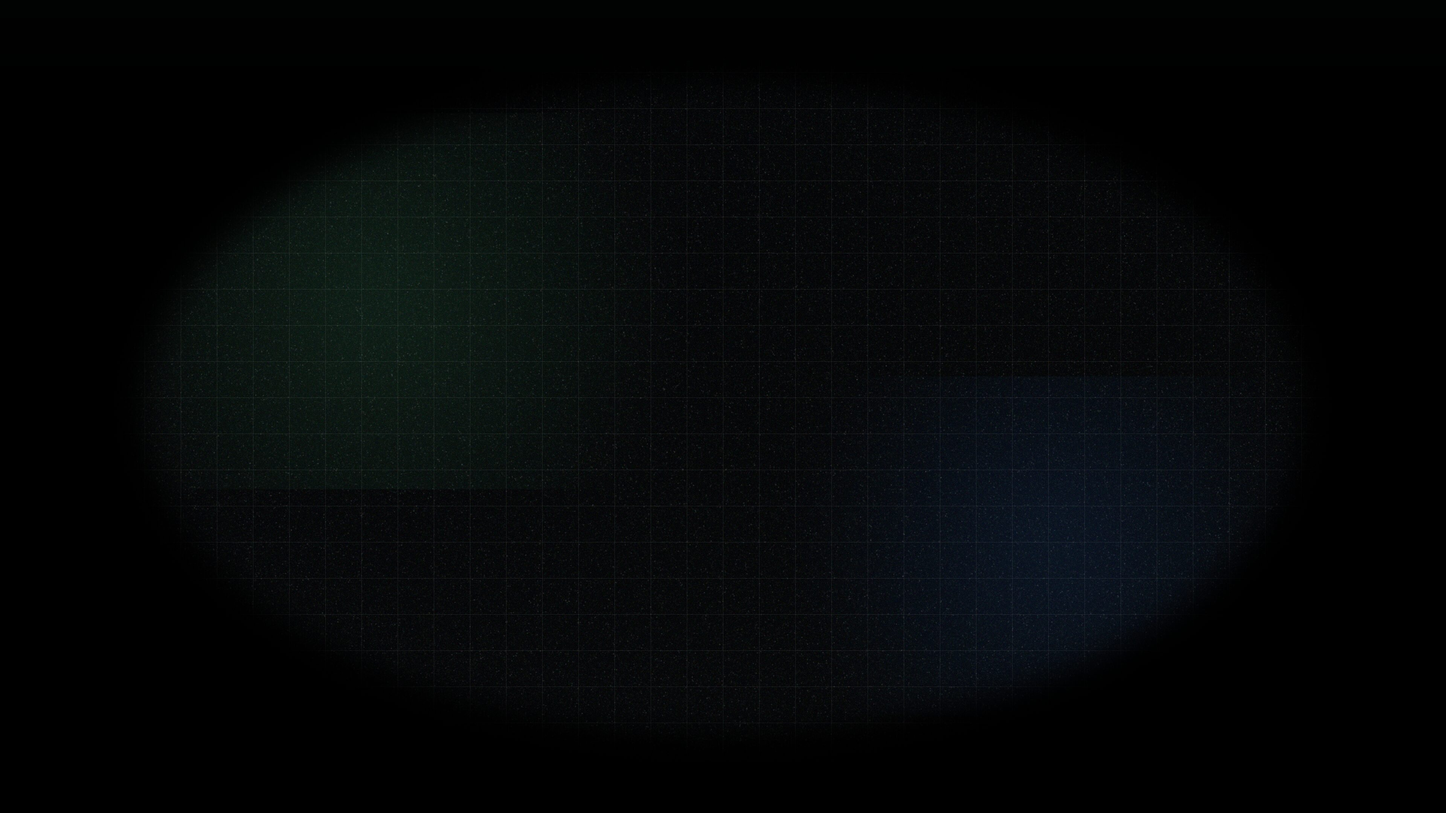
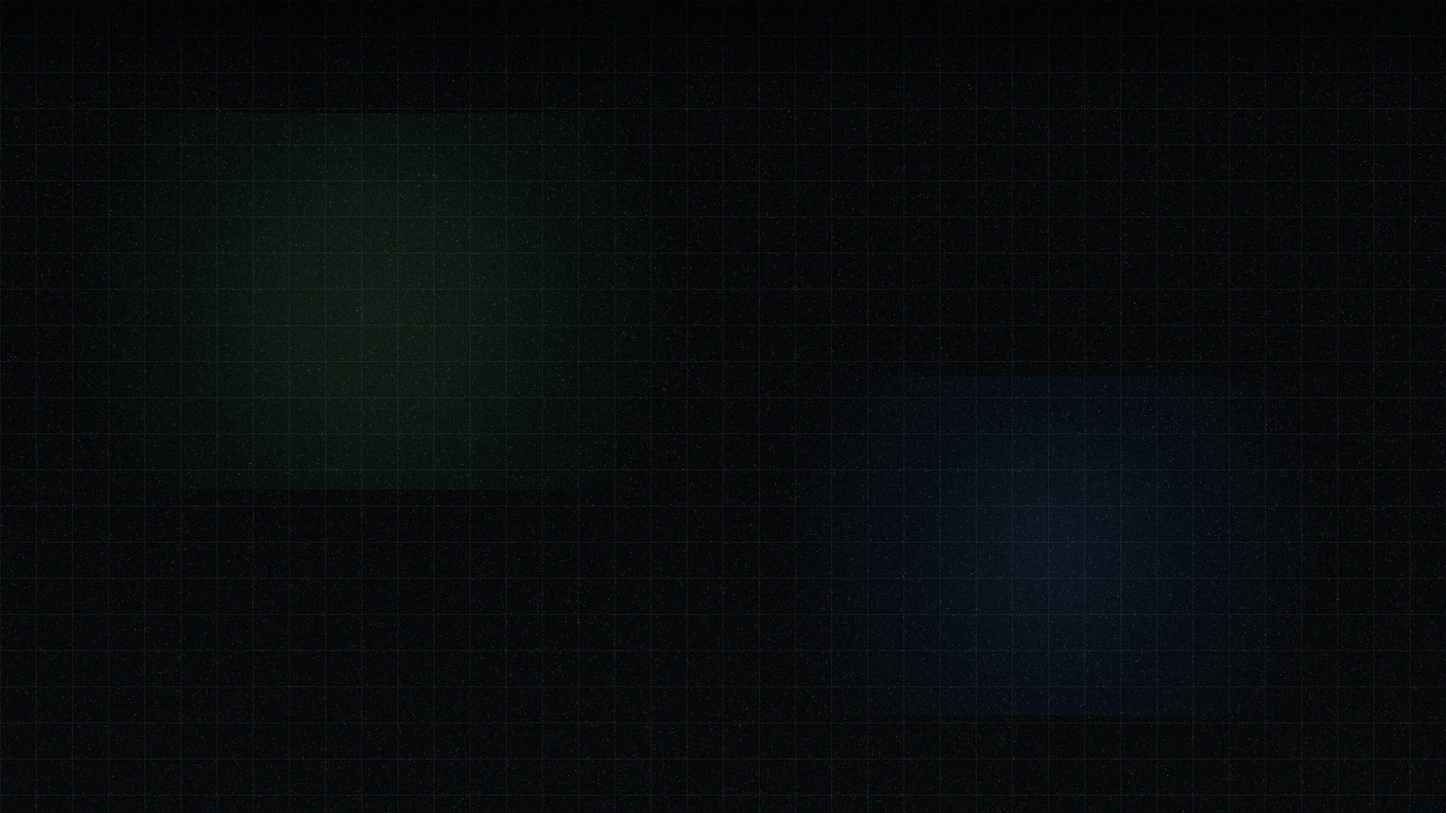
feat: centered CRT screens, static wallpaper, drop schematic, strip vignette ring

Changed region(s): [[0.7188, 0.7444, 0.8438, 0.8995], [0.1875, 0.1551, 0.2188, 0.1861]]

diff --git a/backgrounds/CREDITS.md b/backgrounds/CREDITS.md
@@ -11,10 +11,10 @@ no transcribed dialogue, no studio logos, no reproduced identity artwork.
 |---|---|---|
 | `001-red-colony.jpg` | 3840×2160 | Oxidized-colony abstraction: rust radial glow, three ridge bands, faint docking-orange horizon line, survey grid |
 | `002-green-valley.jpg` | 3840×2160 | Terraform-valley abstraction: phosphor horizon glow, three ridge bands, faint holo-cyan survey line, survey grid |
-| `003-starfield-survey.jpg` | 3840×2160 | Deep-space survey: green + navy nebula washes, two threshold-noise star layers, survey grid |
-| `004-muthur-status.jpg` | 3840×2160 | Ship-status CRT: vessel header, system-check readout, command prompt, scanlines |
-| `005-deck-schematic.jpg` | 3840×2160 | Deck-plan survey: hull line-art, compartment labels, telemetry column, hazard ticks, survey grid, scanlines |
-| `006-quarantine-manifest.jpg` | 3840×2160 | Seal manifest CRT: amber status table, typed-confirm prompt, edge hazard striping, scanlines |
+| `003-starfield-survey.jpg` | 3840×2160 | Deep-space survey: green + navy nebula washes, two threshold-noise star layers, survey grid (no edge vignette) |
+| `004-muthur-status.jpg` | 3840×2160 | Ship-status CRT: vessel header, system-check readout, command prompt, scanlines — text block centered, no edge vignette |
+| `006-quarantine-manifest.jpg` | 3840×2160 | Seal manifest CRT: amber status table, typed-confirm prompt, edge-anchored hazard striping, scanlines — text block centered, no edge vignette |
+| `007-terminal-static.jpg` | 3840×2160 | Idle-terminal static: phosphor-tinted noise field, faint center glow, scanlines — no text, no edge vignette |
 
 Color-story inspiration (red colony / green valley / starfield survey-grid)
 comes from generic campaign-poster composition, re-executed from scratch —

diff --git a/README.md b/README.md
@@ -42,12 +42,13 @@ File manager icons: `Yaru-olive` (colonial drab).
 
 Six original 3840×2160 wallpapers in `backgrounds/`, cycled in filename
 order: three survey vistas (red colony, green valley, starfield) and three
-ship-terminal CRTs (system status, deck schematic, quarantine manifest).
+ship-terminal CRTs (system status, quarantine manifest, idle static).
 All are procedural — layered gradients, line-art, terminal type, survey
-grids, scanlines, film grain, vignette — generated with ImageMagick 7. No
-photographs, no film stills, no AI generation. Each is under 700 KB and
-keeps the top strip near-black so the bar stays readable. See
-`backgrounds/CREDITS.md`.
+grids, scanlines, film grain — generated with ImageMagick 7. No
+photographs, no film stills, no AI generation. Each is around 1 MB or less
+and keeps the top strip near-black so the bar stays readable. The CRT
+text blocks are centered compositions so they survive ultrawide, 16:9,
+and portrait crops. See `backgrounds/CREDITS.md`.
 
 ## Clean-room note
 
